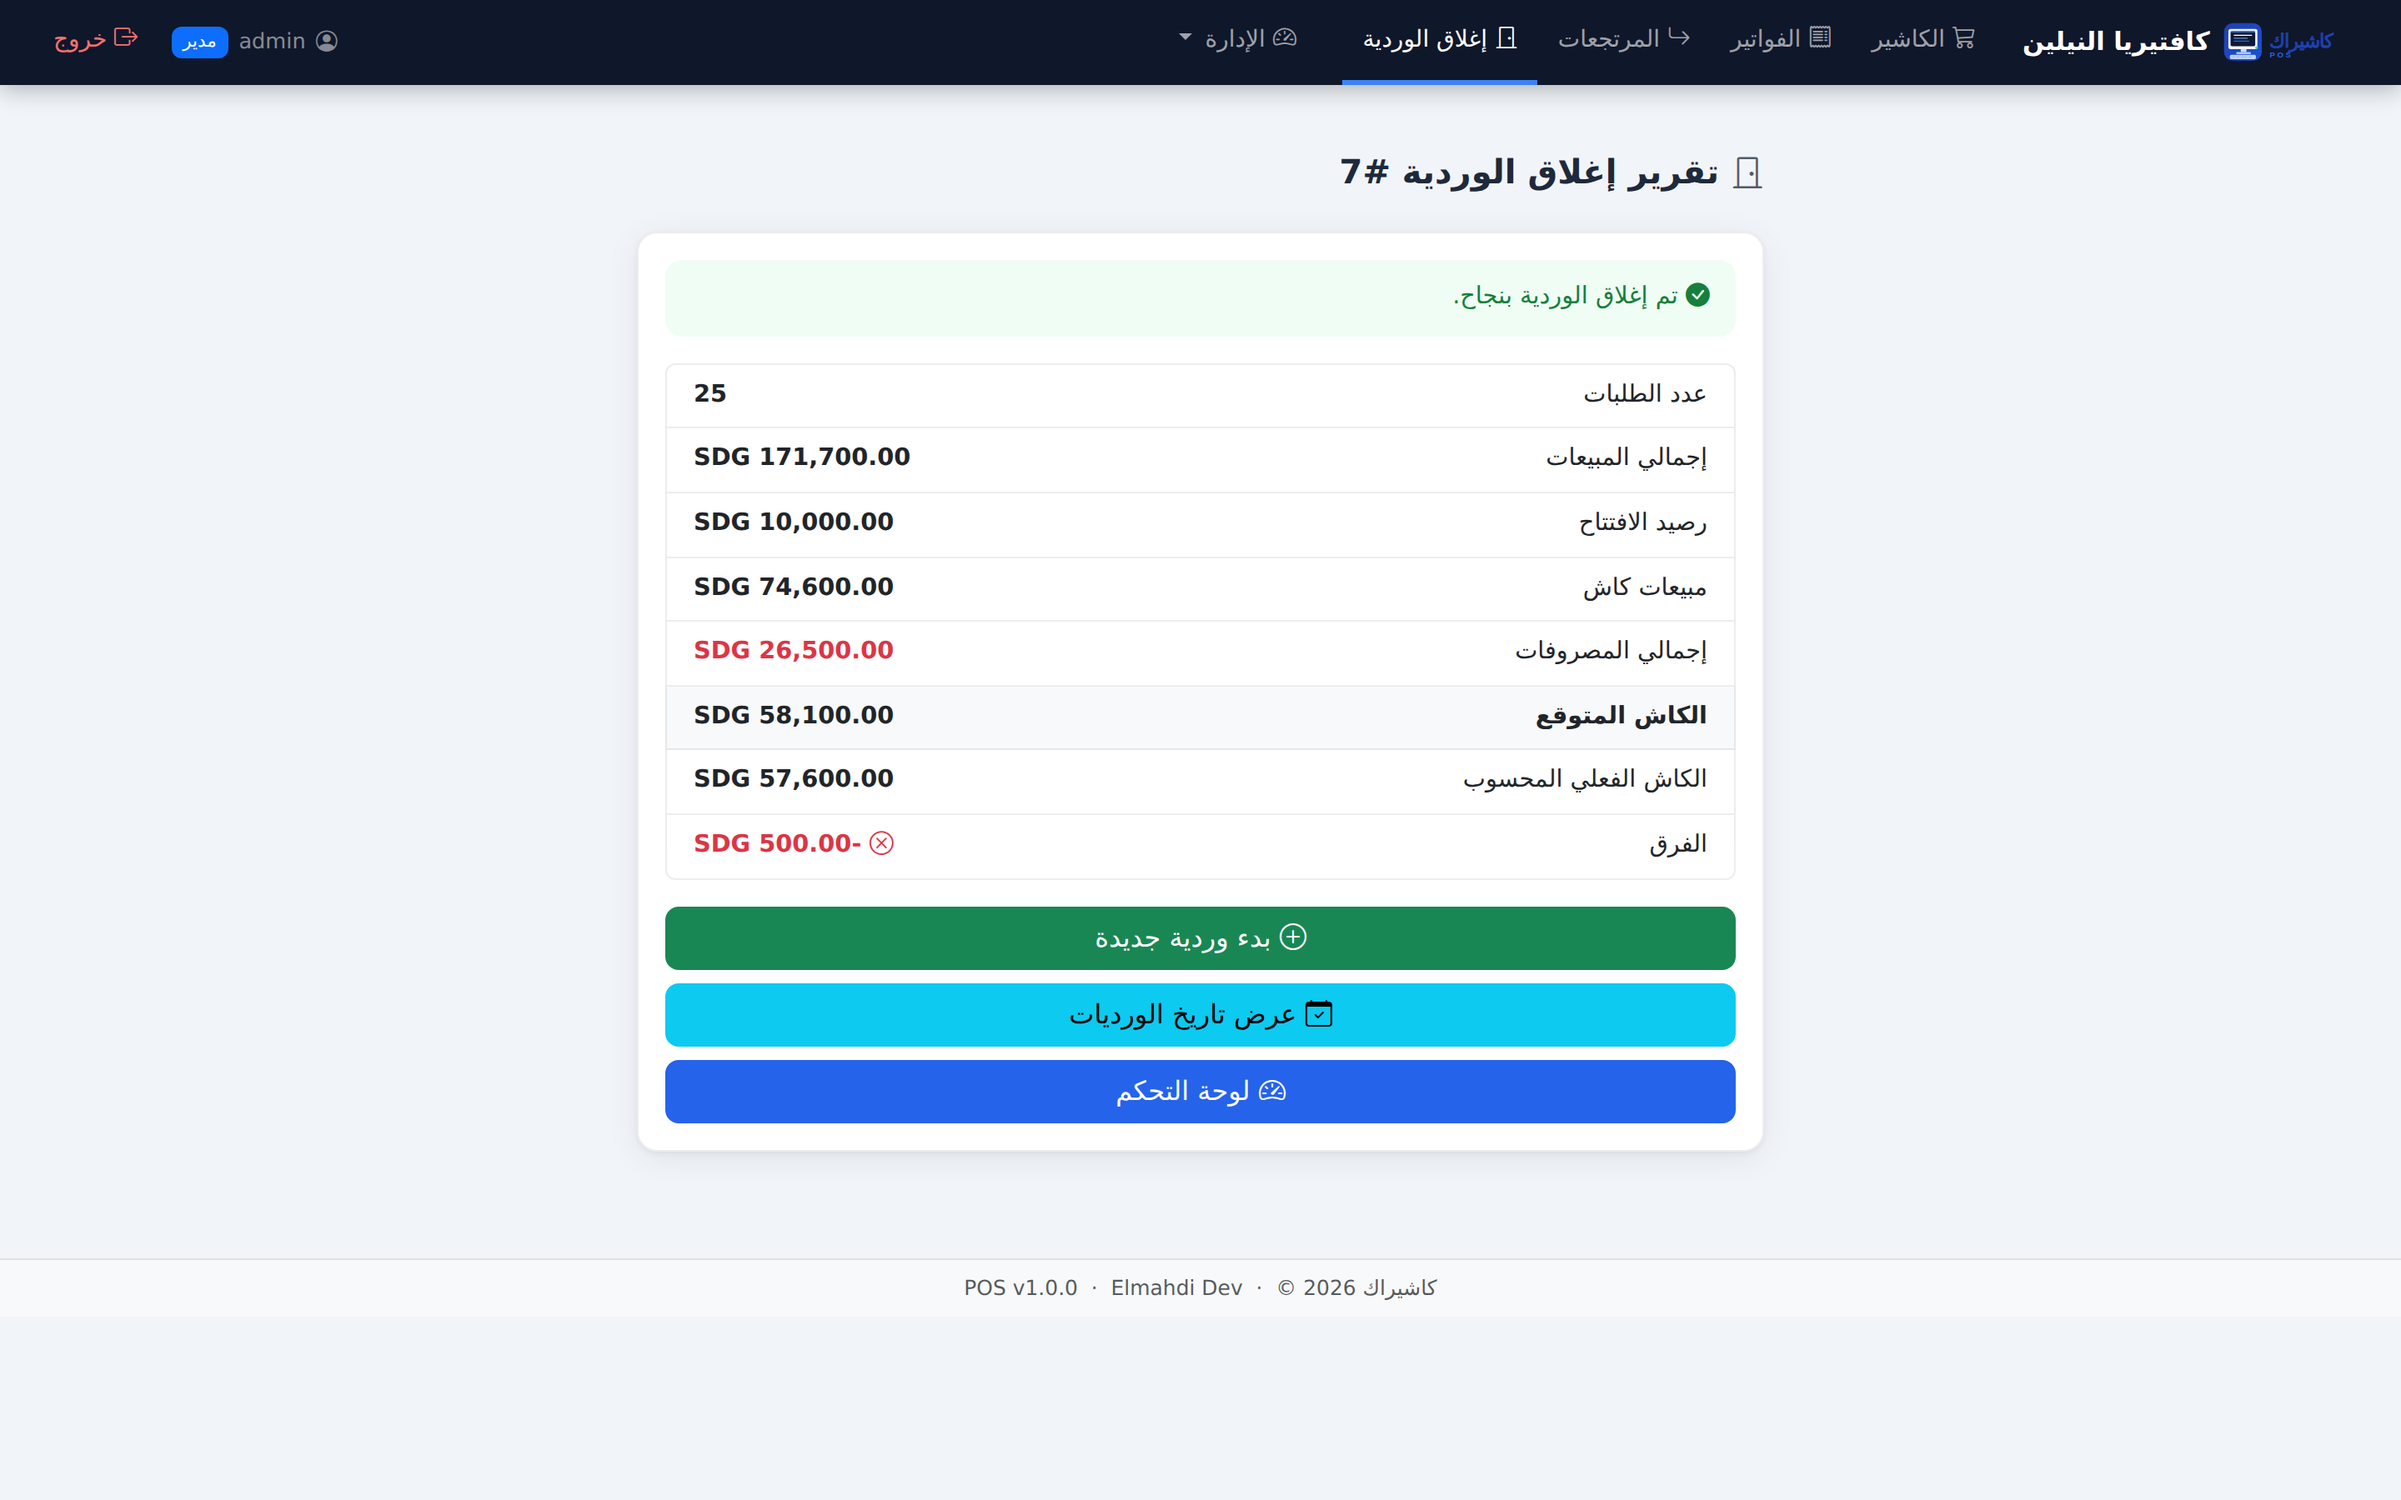
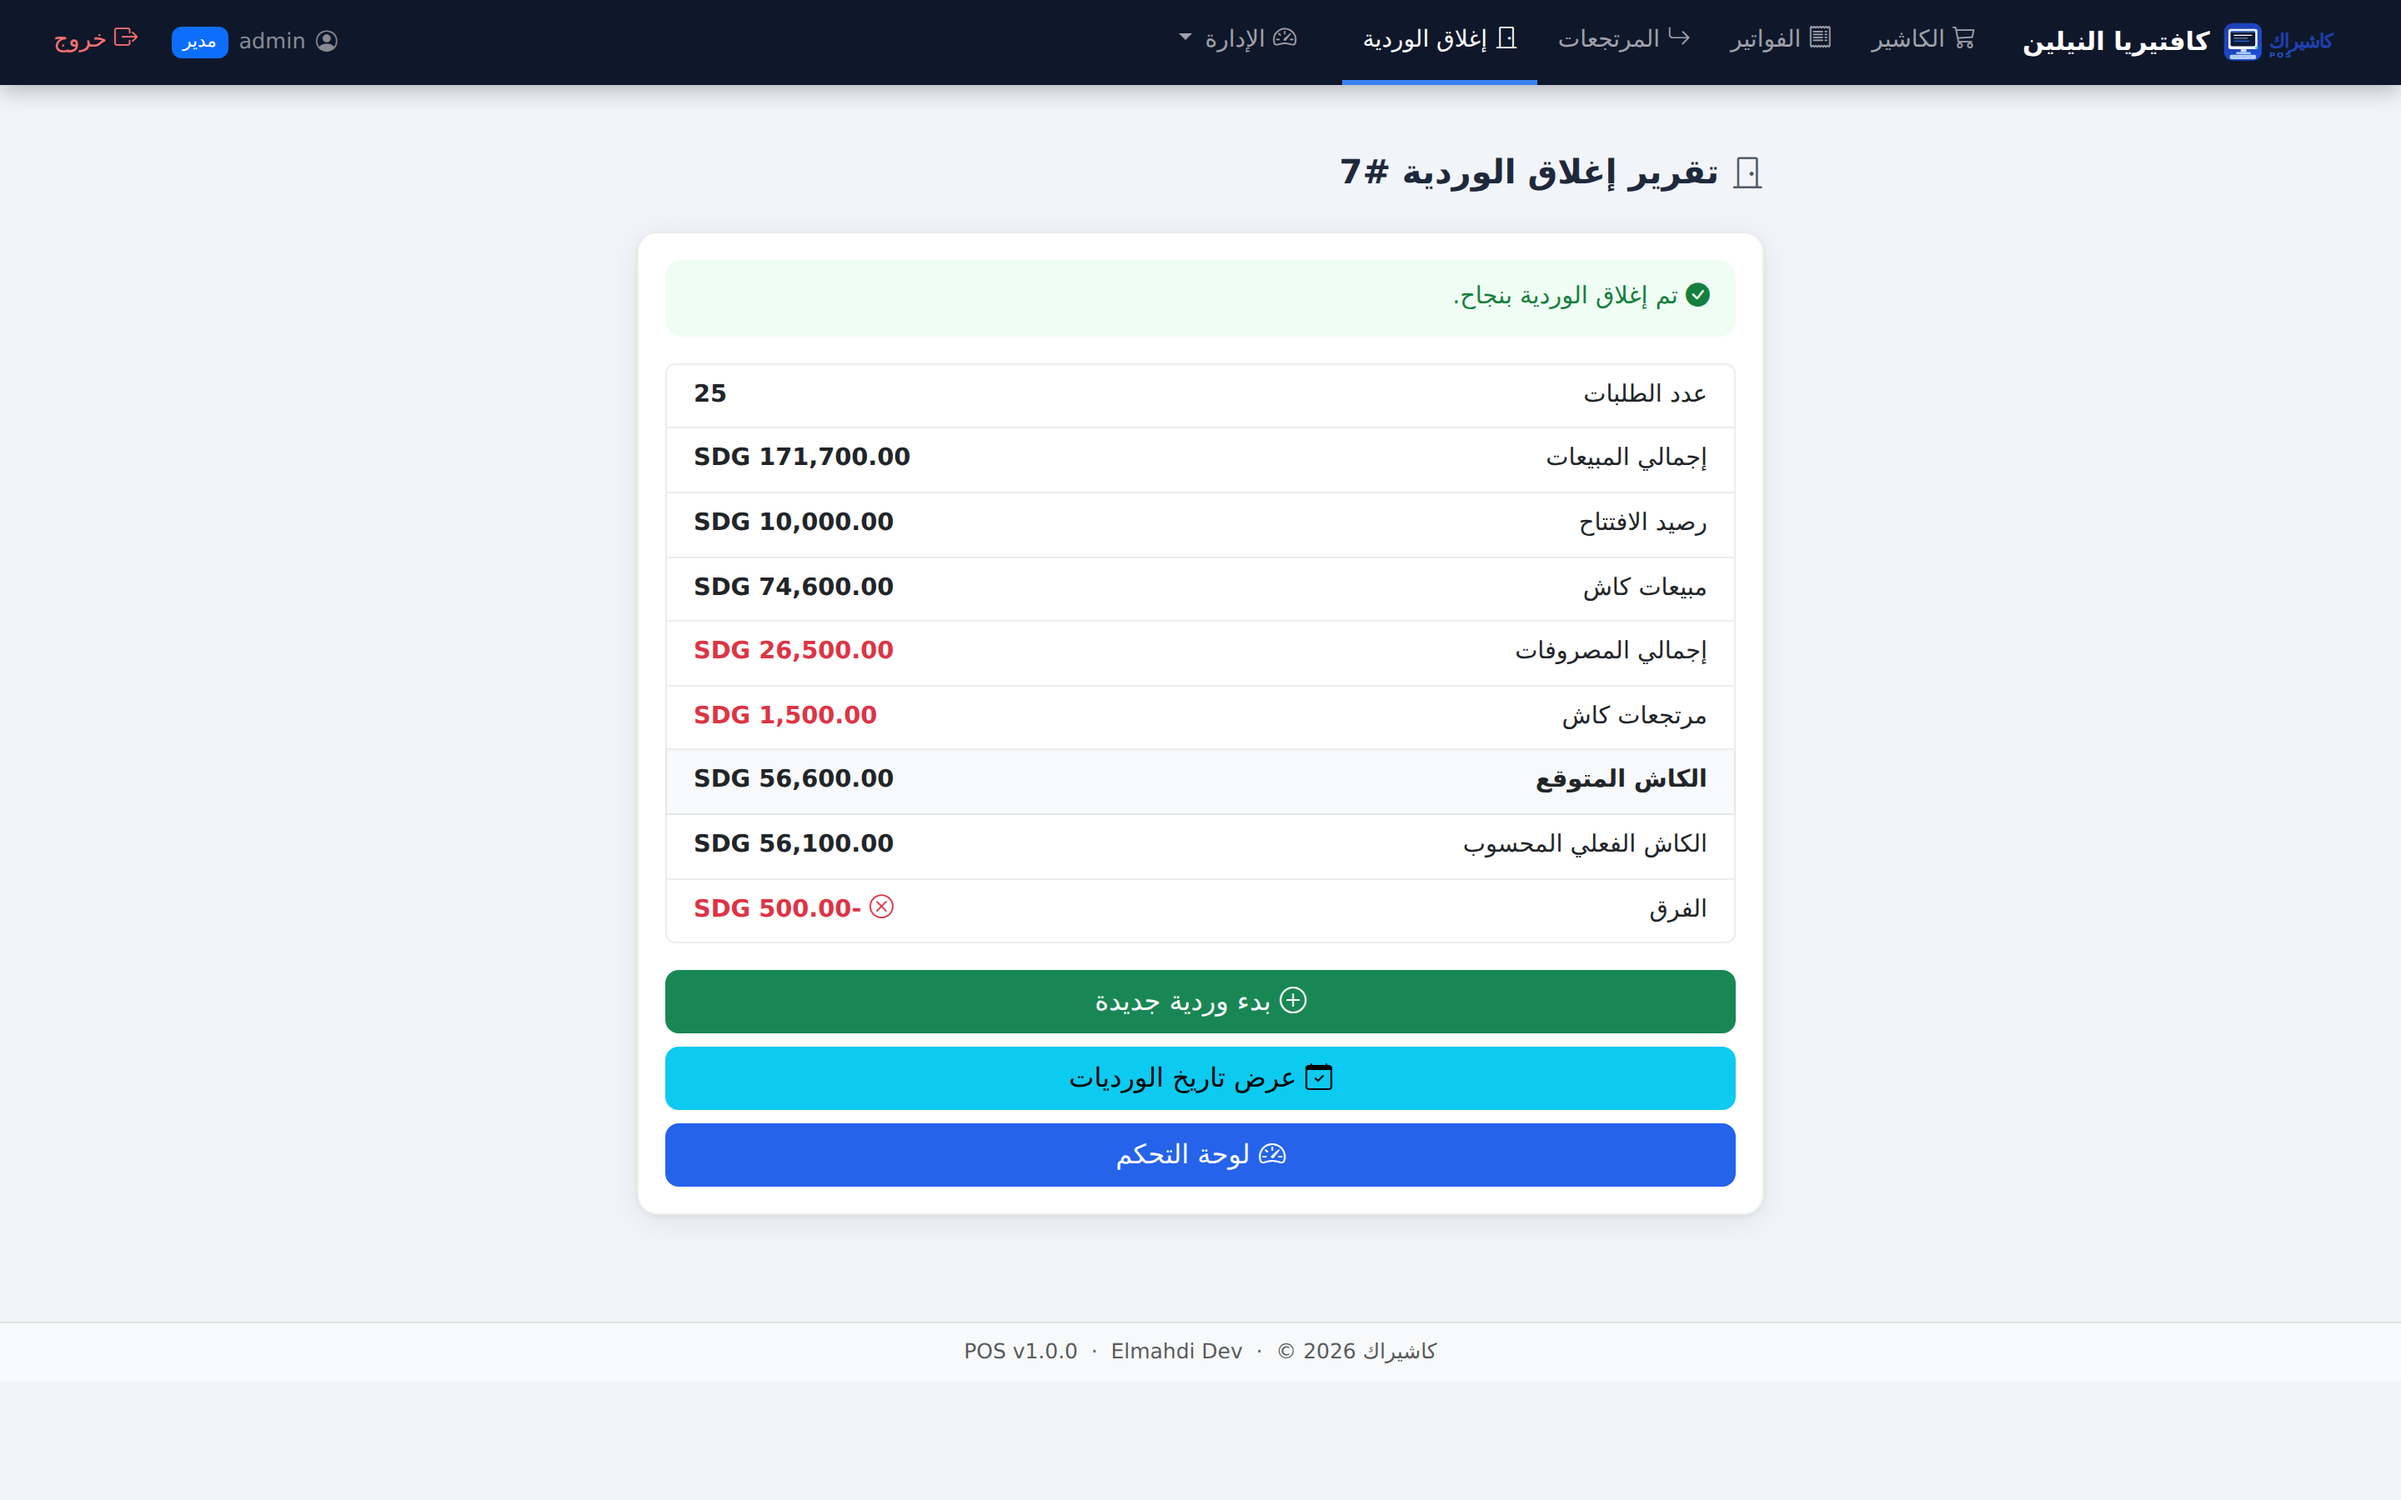
Subtract cash refunds from expected cash at shift close
Returns paid back in cash leave the drawer, but the shift-close
reconciliation ignored them, so every cash refund showed up as a
shortage. Expected cash is now opening + cash sales − expenses −
cash refunds, with a "مرتجعات كاش" row in both the pre-close summary
and the closed report. READMEs and screenshots updated.

Claude-Session: https://claude.ai/code/session_01FXMwyjLSz7TW6CwTVK8RJJ

diff --git a/public/shift-close.php b/public/shift-close.php
@@ -51,14 +51,19 @@ if ($_SERVER['REQUEST_METHOD'] === 'POST') {
     $expStmt->execute([$shift_id]);
     $total_expenses = (float)$expStmt->fetchColumn();
 
+    // Cash refunds (returns paid back in cash) leave the drawer too
+    $refStmt = $db->prepare("SELECT COALESCE(SUM(total_refund),0) FROM returns WHERE shift_id = ? AND payment_method = 'كاش'");
+    $refStmt->execute([$shift_id]);
+    $cash_refunds = (float)$refStmt->fetchColumn();
+
     $opening_cash  = (float)($shift['opening_cash'] ?? 0);
-    $expected_cash = $opening_cash + $cash_sales - $total_expenses;
+    $expected_cash = $opening_cash + $cash_sales - $total_expenses - $cash_refunds;
     $difference    = $actual_cash - $expected_cash;
 
     Shift::closeWithReconciliation($shift_id, $actual_cash, $close_note, $total_sales, $total_orders);
 
     $closed = true;
-    $closeData = compact('opening_cash', 'cash_sales', 'total_expenses', 'expected_cash', 'actual_cash', 'difference', 'total_sales', 'total_orders');
+    $closeData = compact('opening_cash', 'cash_sales', 'total_expenses', 'cash_refunds', 'expected_cash', 'actual_cash', 'difference', 'total_sales', 'total_orders');
 }
 
 // ── Compute preview data (for GET or on POST success display) ────────────────
@@ -82,6 +87,11 @@ if (!$closed) {
     $expStmt->execute([$shift_id]);
     $total_expenses = (float)$expStmt->fetchColumn();
 
+    // Cash refunds (returns paid back in cash) leave the drawer too
+    $refStmt = $db->prepare("SELECT COALESCE(SUM(total_refund),0) FROM returns WHERE shift_id = ? AND payment_method = 'كاش'");
+    $refStmt->execute([$shift_id]);
+    $cash_refunds = (float)$refStmt->fetchColumn();
+
     // Best sellers
     $best = OrderItem::bestSellers($shift_id);
 
@@ -91,7 +101,7 @@ if (!$closed) {
     $statsRow = $statsRow->fetch(\PDO::FETCH_ASSOC);
 
     $opening_cash  = (float)($shift['opening_cash'] ?? 0);
-    $expected_cash = $opening_cash + $cash_sales - $total_expenses;
+    $expected_cash = $opening_cash + $cash_sales - $total_expenses - $cash_refunds;
 }
 
 $csrf      = Security::generateCSRFToken();
@@ -135,6 +145,10 @@ include __DIR__ . '/../views/partials/header.php';
                 <li class="list-group-item d-flex justify-content-between">
                     <span>إجمالي المصروفات</span>
                     <strong class="text-danger"><?= number_format($closeData['total_expenses'], 2) ?> <?= htmlspecialchars($currency) ?></strong>
+                </li>
+                <li class="list-group-item d-flex justify-content-between">
+                    <span>مرتجعات كاش</span>
+                    <strong class="text-danger"><?= number_format($closeData['cash_refunds'], 2) ?> <?= htmlspecialchars($currency) ?></strong>
                 </li>
                 <li class="list-group-item d-flex justify-content-between bg-light">
                     <span><strong>الكاش المتوقع</strong></span>
@@ -185,6 +199,10 @@ include __DIR__ . '/../views/partials/header.php';
                 <li class="list-group-item d-flex justify-content-between">
                     <span>إجمالي المصروفات</span>
                     <strong class="text-danger"><?= number_format($total_expenses, 2) ?> <?= htmlspecialchars($currency) ?></strong>
+                </li>
+                <li class="list-group-item d-flex justify-content-between">
+                    <span>مرتجعات كاش</span>
+                    <strong class="text-danger"><?= number_format($cash_refunds, 2) ?> <?= htmlspecialchars($currency) ?></strong>
                 </li>
                 <li class="list-group-item d-flex justify-content-between bg-light">
                     <span><strong>الكاش المتوقع</strong></span>

diff --git a/README.md b/README.md
@@ -123,7 +123,7 @@ Raw, unframed screenshots of every screen are in [`docs/screenshots/`](docs/scre
 - **Opening cash** (the float in the drawer) is entered on the admin dashboard.
 - **Shift expenses** (ice, bread, gas…) recorded during the shift.
 - **Shift close with reconciliation**: payment-method breakdown, best sellers, expected cash
-  (`opening cash + cash sales − expenses`) vs. **counted cash**, difference and a note.
+  (`opening cash + cash sales − expenses − cash refunds`) vs. **counted cash**, difference and a note.
 - **Shift history** and a **detailed report per shift** (duration, totals, average ticket, payment breakdown, best sellers).
 
 ### 📦 Menu & inventory
@@ -211,7 +211,7 @@ stateDiagram-v2
     Closed --> [*]: visible in shift history & reports
 ```
 
-Expected cash at close = **opening cash + cash sales − shift expenses**. The admin types the counted
+Expected cash at close = **opening cash + cash sales − shift expenses − cash refunds**. The admin types the counted
 amount; the difference (shortage / surplus) is saved with the shift.
 
 ### Data model

diff --git a/README.ar.md b/README.ar.md
@@ -114,7 +114,7 @@
 - **رصيد الافتتاح** (الفكة في الدرج) يُدخل من لوحة التحكم.
 - **مصروفات الوردية** (ثلج، خبز، غاز…).
 - **إغلاق الوردية مع المطابقة**: توزيع طرق الدفع، الأكثر مبيعاً، **الكاش المتوقع**
-  (رصيد الافتتاح + مبيعات الكاش − المصروفات) مقابل **الكاش الفعلي**، والفرق وملاحظة.
+  (رصيد الافتتاح + مبيعات الكاش − المصروفات − المرتجعات النقدية) مقابل **الكاش الفعلي**، والفرق وملاحظة.
 - **تاريخ الورديات** و**تقرير مفصّل لكل وردية**.
 
 ### 📦 الأصناف والمخزون
